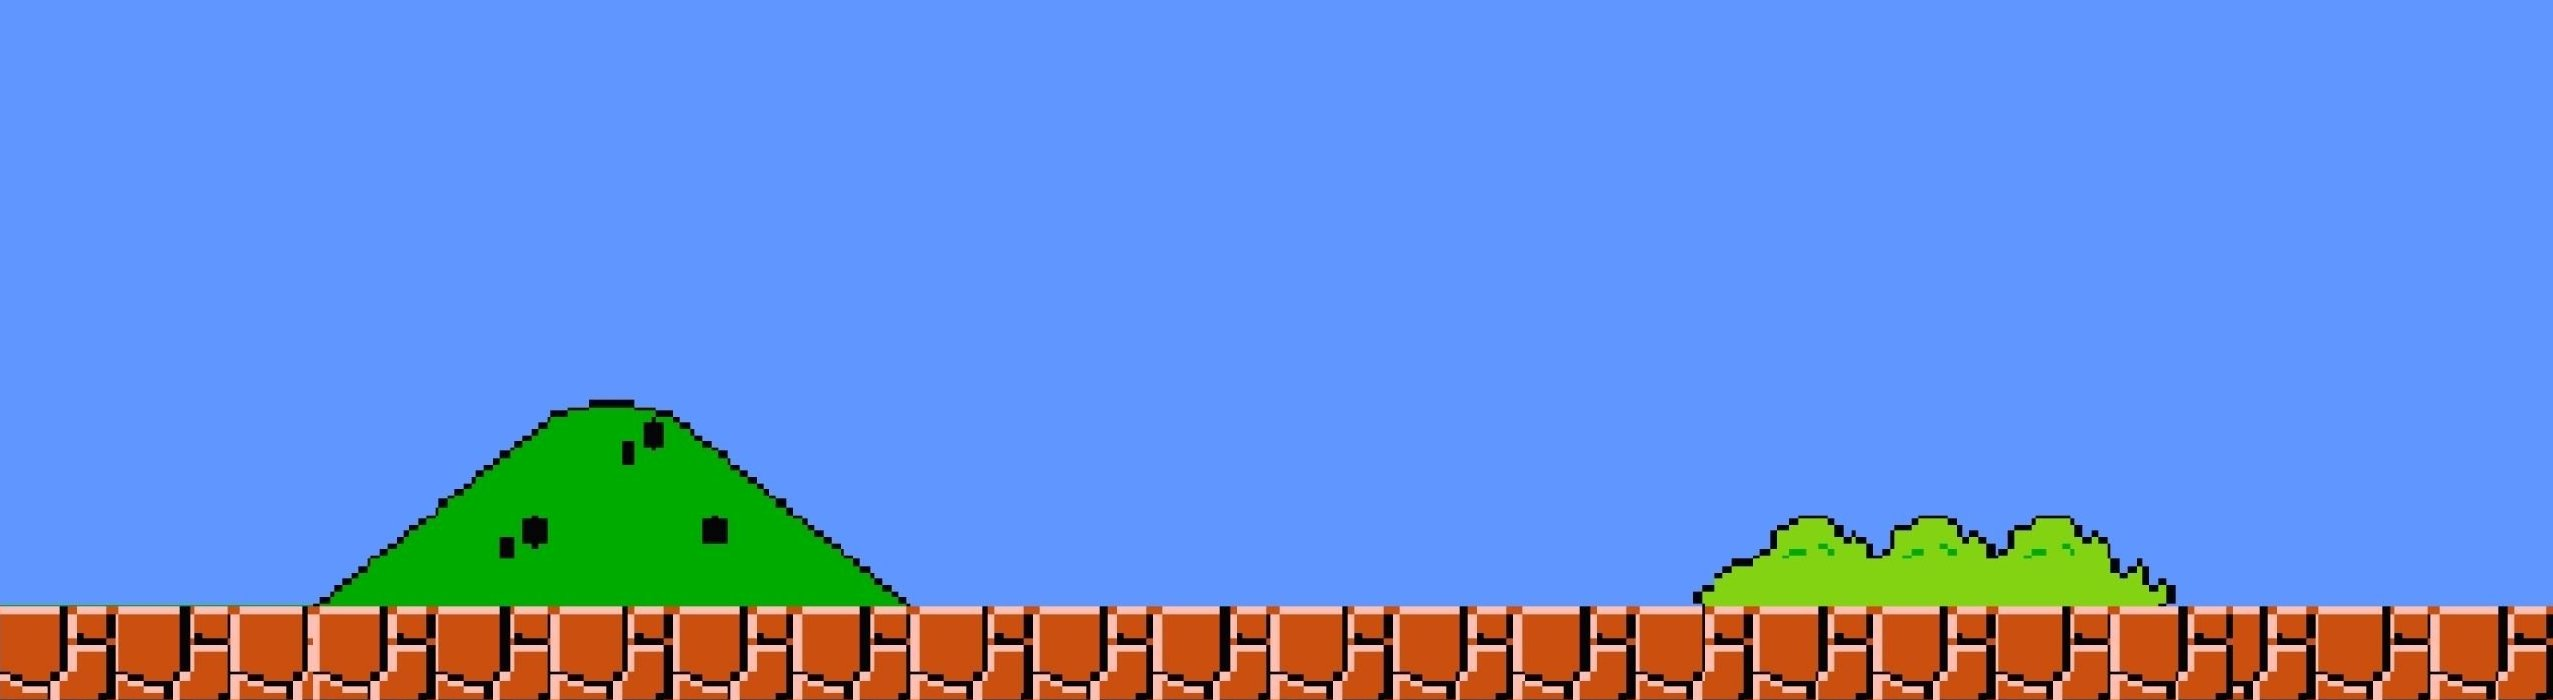
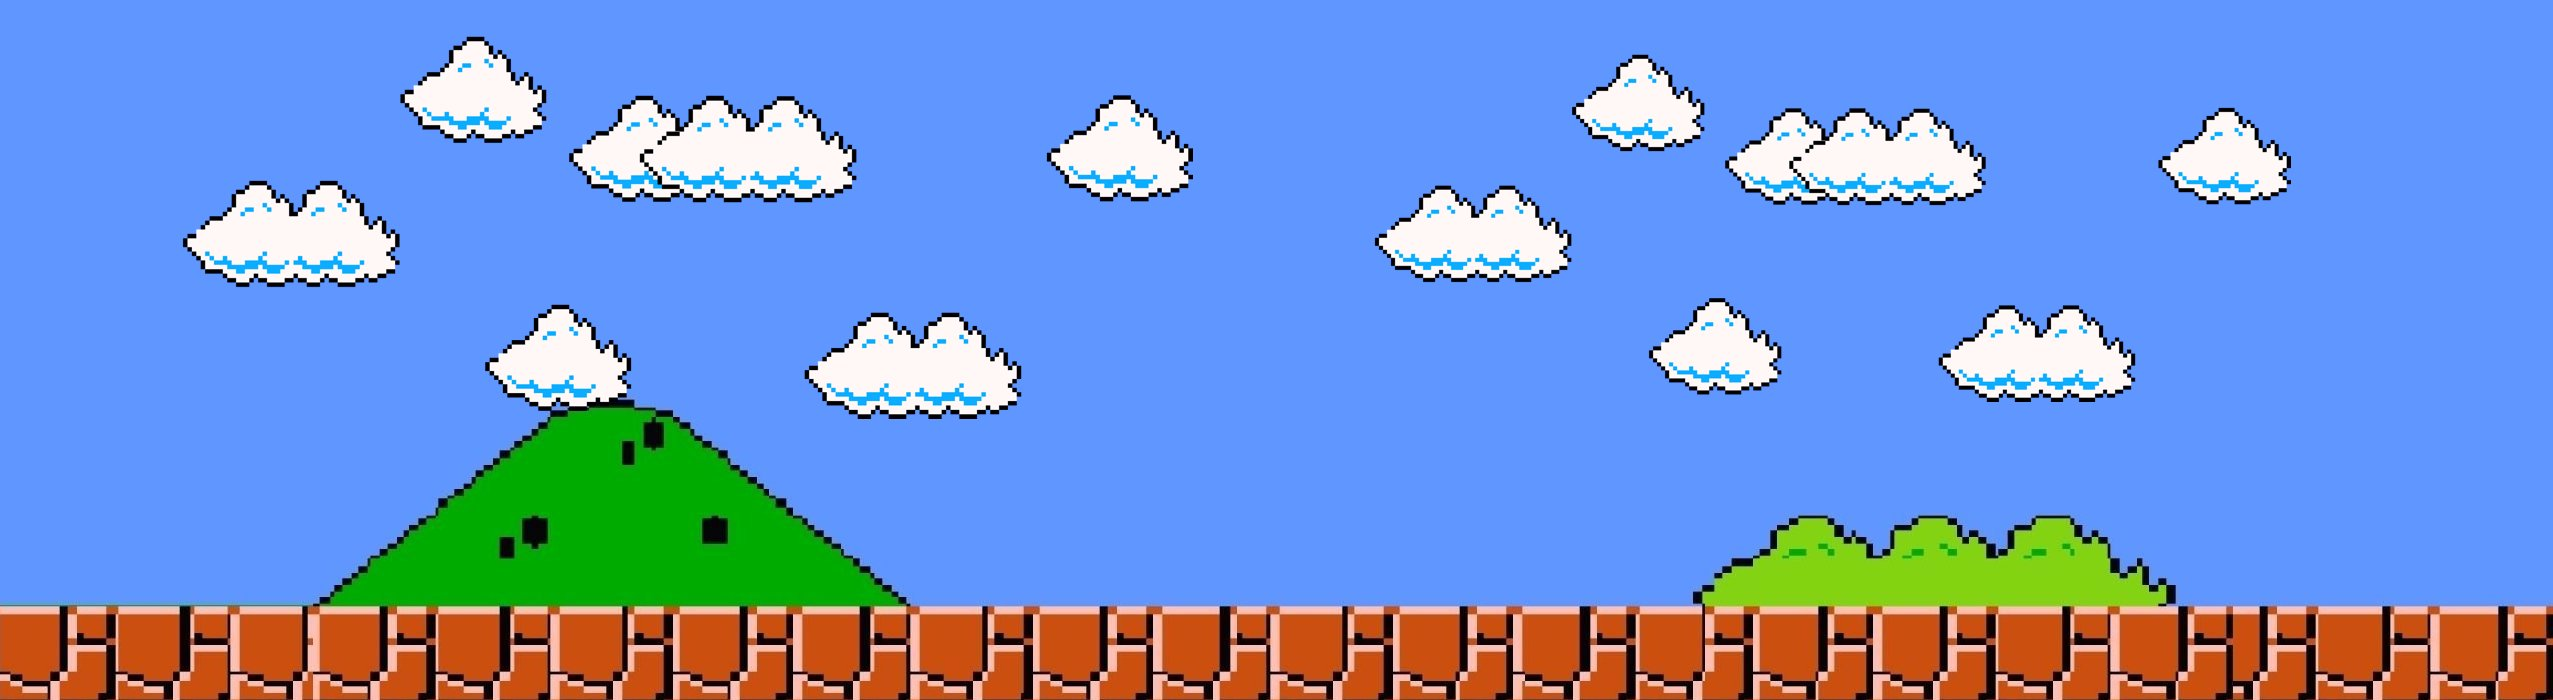
css

diff --git a/style.css b/style.css
@@ -57,11 +57,9 @@
 
 #marioFire {
   position: relative;
-  
-    
   height: 40px;
   width: 35px;
-  background: url("img/fire.png") 0px 0px;
+  background: url("img/imgbin_super-mario-kart-super-nintendo-entertainment-system-mario-series-png.png") 0px 0px;
 }
 
 #coin {
@@ -115,17 +113,17 @@
   position: absolute;
   left: 400px;
   bottom: 295px;
-  height: 50px;
-  width: 200px;
-  background: url("img/Bricks.png") 0px 0px;
+  height: 58px;
+  width: 150px;
+  background: url("img/toppng.com-super-mario-bros-super-mario-bros-cloud-1863x701.png") 0px 0px;
 }
 
 #prizeBrick {
   position: absolute;
   bottom: 365px;
-  height: 50px;
-  width: 200px;
-  background: url("img/Bricks.png") 0px 0px;
+  height: 58px;
+  width: 300px;
+  background: url("img/toppng.com-super-mario-bros-super-mario-bros-cloud-1863x701.png") 0px 0px;
 }
 
 #greenPipe {
